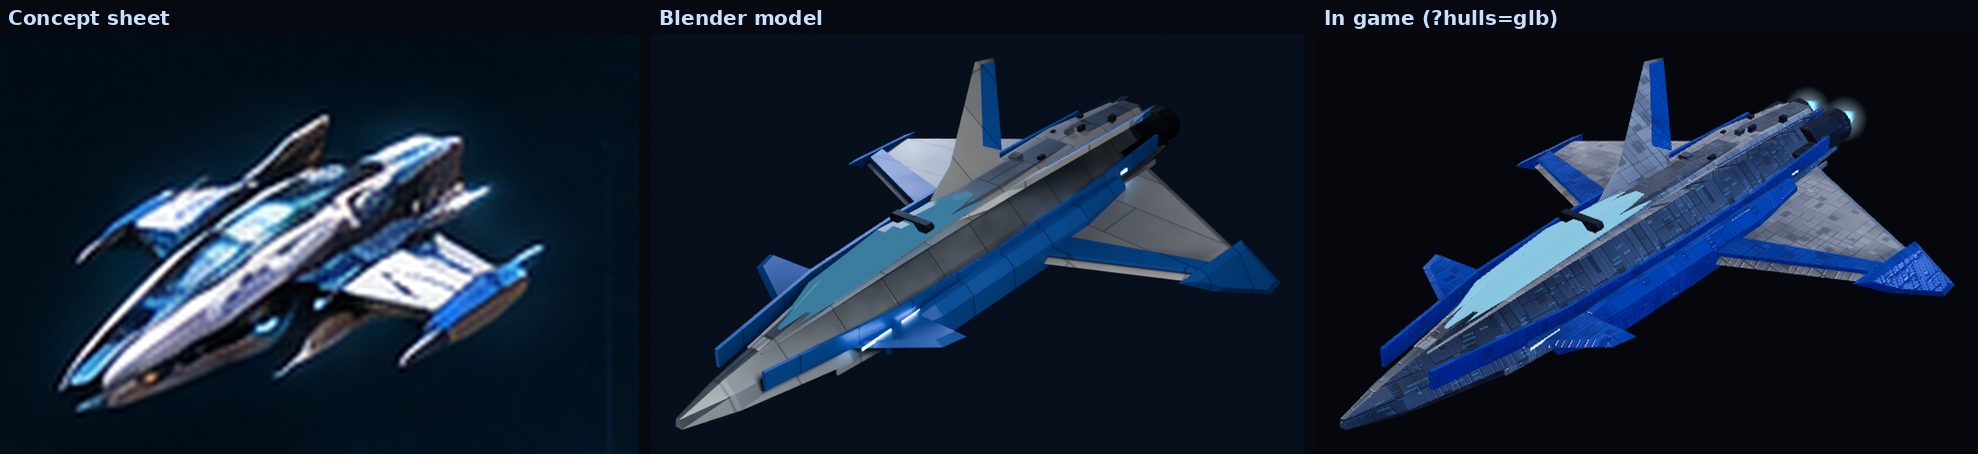
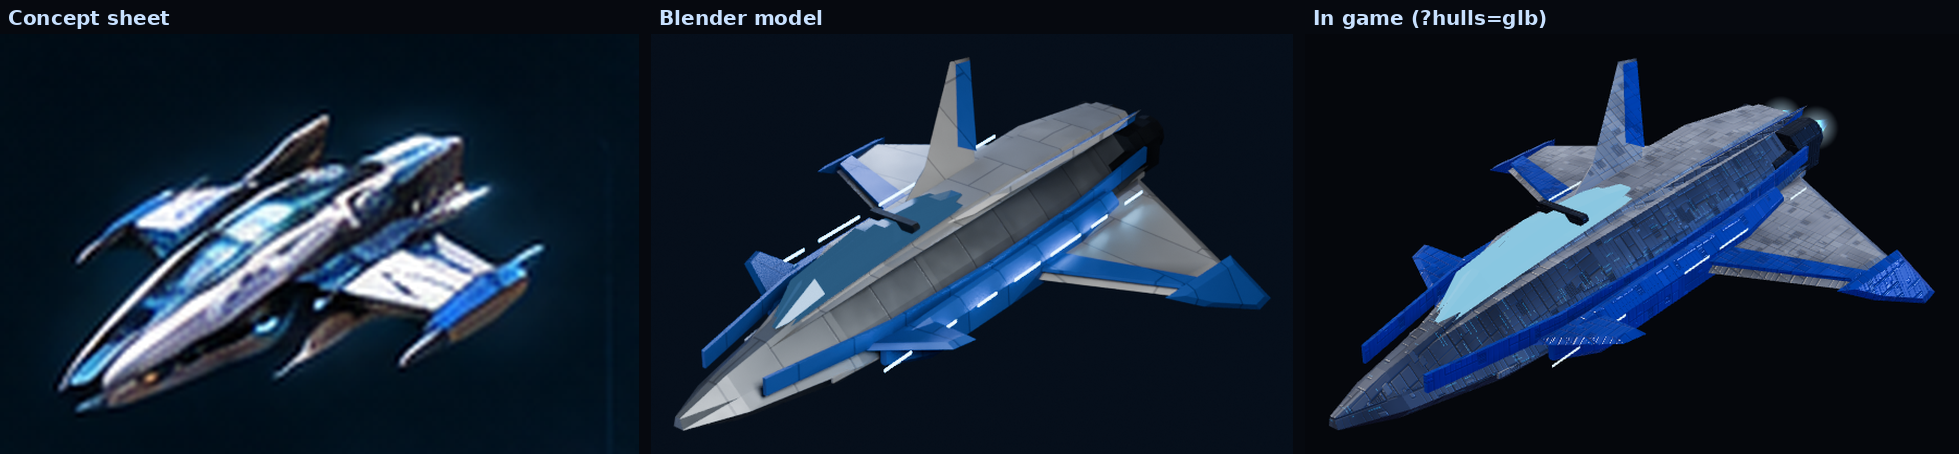
blender batch1: fighter blade cant pass, refreshed concept-vs-model sheets

diff --git a/tools/blender/interceptor.py b/tools/blender/interceptor.py
@@ -23,8 +23,8 @@ def build():
         stripe(s, side, (-9, -5, 0, 5, 10.5), hwf, -0.2, 0.25, D, 0.08)   # black flank band
         stripe(s, side, (-7, -2, 4, 10), hwf, 0.35, 0.5, P, 0.06)         # silver pinstripe
         # very long dorsal blade: dark core, red leading blade
-        blade(s, side, (0.5, -3.0, 1.0), [(1.5, 0), (6.0, 0), (11.0, 2.4), (10.2, 2.6), (3.6, 0.5)], 0.16, D, cant=50)
-        blade(s, side, (0.5, -3.0, 1.0), [(6.2, 0.25), (10.8, 2.3), (10.2, 2.45), (5.5, 0.6)], 0.2, A, cant=50, inset=0.08)
+        blade(s, side, (0.5, -3.0, 1.0), [(1.5, 0), (6.0, 0), (11.0, 2.4), (10.2, 2.6), (3.6, 0.5)], 0.16, D, cant=32)
+        blade(s, side, (0.5, -3.0, 1.0), [(6.2, 0.25), (10.8, 2.3), (10.2, 2.45), (5.5, 0.6)], 0.2, A, cant=32, inset=0.08)
         # short swept rear wing (red top, black underside plate) + drooping tip blade
         wing(s, side, (1.2, 3.0, -0.25), [(0, 0), (3.8, 3.4), (4.0, 5.2), (0, 6.6)], 0.24, A, dihedral=-6)
         wing(s, side, (1.2, 3.0, -0.42), [(0.2, 1.0), (3.6, 3.9), (3.7, 5.0), (0.2, 6.2)], 0.1, D, dihedral=-6, inset=0.05)

diff --git a/tools/blender/scout.py b/tools/blender/scout.py
@@ -26,8 +26,8 @@ def build():
         stripe(s, side, (-8, -4, 0, 4, 8.6), hwf, 0.05, 0.55, A, 0.1)
         stripe(s, side, (-6, -2, 3, 8.6), hwf, -0.45, -0.3, P, 0.06)
         # twin dorsal blades canted outboard, swept hard back
-        blade(s, side, (0.6, -1.5, 1.05), [(1.2, 0), (4.6, 0), (7.4, 2.9), (6.6, 3.05), (2.8, 0.6)], 0.16, P, cant=52)
-        blade(s, side, (0.6, -1.5, 1.05), [(5.0, 0.3), (7.3, 2.8), (6.7, 2.9), (4.5, 0.7)], 0.2, A, cant=52, inset=0.1)
+        blade(s, side, (0.6, -1.5, 1.05), [(1.2, 0), (4.6, 0), (7.4, 2.9), (6.6, 3.05), (2.8, 0.6)], 0.16, P, cant=30)
+        blade(s, side, (0.6, -1.5, 1.05), [(5.0, 0.3), (7.3, 2.8), (6.7, 2.9), (4.5, 0.7)], 0.2, A, cant=30, inset=0.1)
         # forward canards (blue)
         wing(s, side, (0.9, -5.6, 0.05), [(0, 0), (2.2, 1.3), (2.4, 2.0), (0, 2.4)], 0.14, A, dihedral=6)
         # main swept wing: silver with a blue leading band
